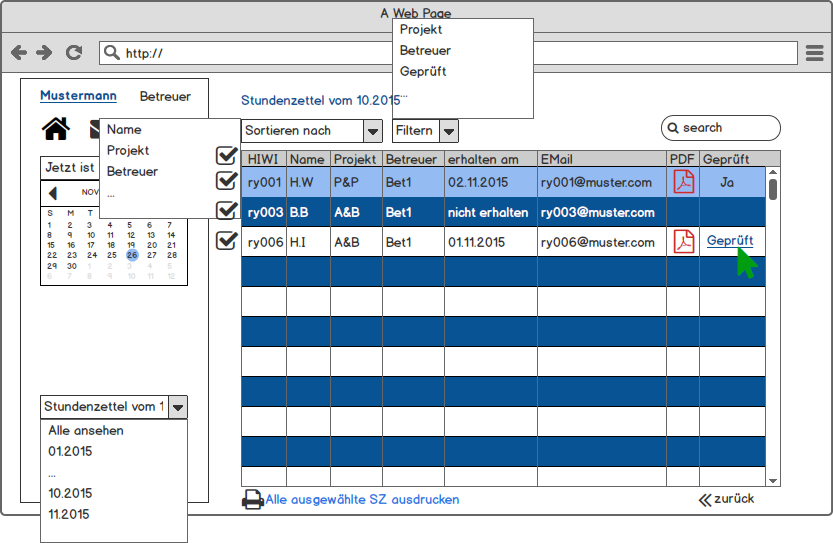
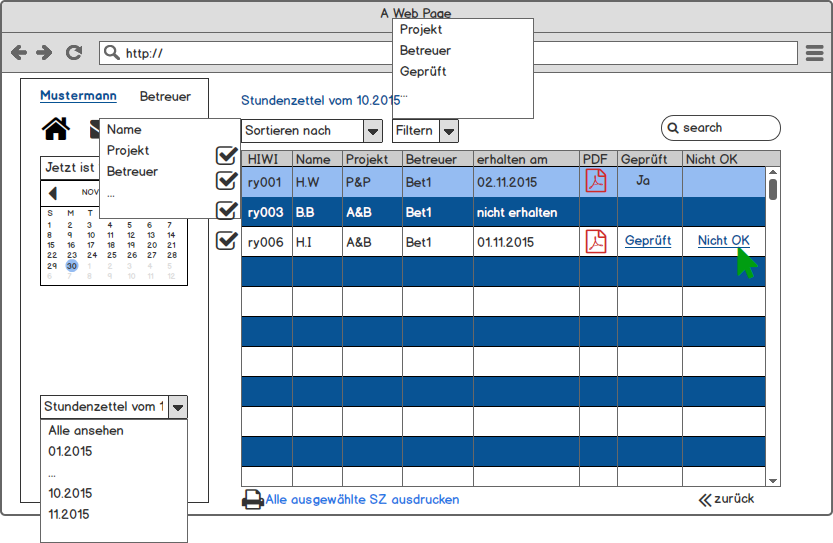
Button und weitere Beschreibungen hinzugefügt.

Changed region(s): [[0.3433, 0.2652, 0.9052, 0.4715], [0.1561, 0.442, 0.1873, 0.4715], [0.0624, 0.4715, 0.0936, 0.5009]]

diff --git a/Pflichtenheft/produktdesign.tex b/Pflichtenheft/produktdesign.tex
@@ -29,14 +29,42 @@ Der \emph{Benutzer*} klickt in das Textfeld, wo er eine Änderung tätigen will,
 
 
 
-
+\newpage
+\textbf{\\Nachricht Interface vom Benutzer*}\\
+\\
+Die Nachrichten(Warnungen und Erinnerungen) sieht der \emph{Benutzer*}, indem er auf Nachricht Button
+\includegraphics[scale=.8]{UI/Button/Nachricht.png} drückt.\\
+Die Anzahl der Nachrichten erscheint in dem kleinen Kreis rechtsoben auf dem Button.\\
+\\
+\\
 \includegraphics[width=\linewidth]{UI/Benutzer/Nachricht.png}
 
+\newpage
 \subsection{Betreuer}
-\includegraphics[width=\linewidth]{UI/Betreuer/Hauptseite.png}\\
+\textbf{\\Hauptseite vom Betreuer*}\\
+\\
+Nach der erfolgreichen Anmeldung befindet sich der \emph{Betreuer*} auf dieser Seite.\\
+Alle ihm zugewiesenen \emph{Benutzer*} werden samt deren Informationen und Daten angezeigt.\\
+Der \emph{Betreuer*} kann hier die schon abgegebenen \emph{Stundenzettel} aufrufen, kontrollieren und ausdrucken.\\
+Wenn der \emph{Stundenzettel} korrekt ist, drückt der \emph{Betreuer*} auf "Geprüft". Danach wird der \emph{Administrator} drüber informiert.\\
+Wenn der \emph{Stundenzettel} nicht korrekt ist, drückt der \emph{Betreuer*} auf "Nicht OK". Dann wird ein Textfeld erscheinen, in dem der \emph{Betreuer*} die Gründe der Ablehnung schreiben kann.\\
+\\
+\\
+\includegraphics[width=\linewidth]{UI/Betreuer/Hauptseite.png}
+
+\newpage
+\textbf{\\Nachricht Interface vom Betreuer*}\\
+\\
+Auf der Nachrichtenseite wird der \emph{Betreuer*} über Erinnerungen/Warnungen an allen ihm zugewiesenen \emph{Benutzern*} und Abgabe von \emph{Stundenzettel} informiert.\\
+Hier kann der \emph{Betreuer*} direkt die \emph{Stundenzettel} aufrufen, kontrollieren und Kommentar dazu schreiben.\\
+\\
+\\
 \includegraphics[width=\linewidth]{UI/Betreuer/Nachricht.png}
 
-\subsection{Admin}
+\newpage
+\subsection{Administrator*}
+\textbf{\\Hauptseite vom Administrator*}\\
+\\
 \includegraphics[width=\linewidth]{UI/Admin/Hauptseite.png}
 \includegraphics[width=\linewidth]{UI/Admin/Accounts/Ubersicht.png}
 \includegraphics[width=\linewidth]{UI/Admin/Accounts/Bearbeiten.png}
